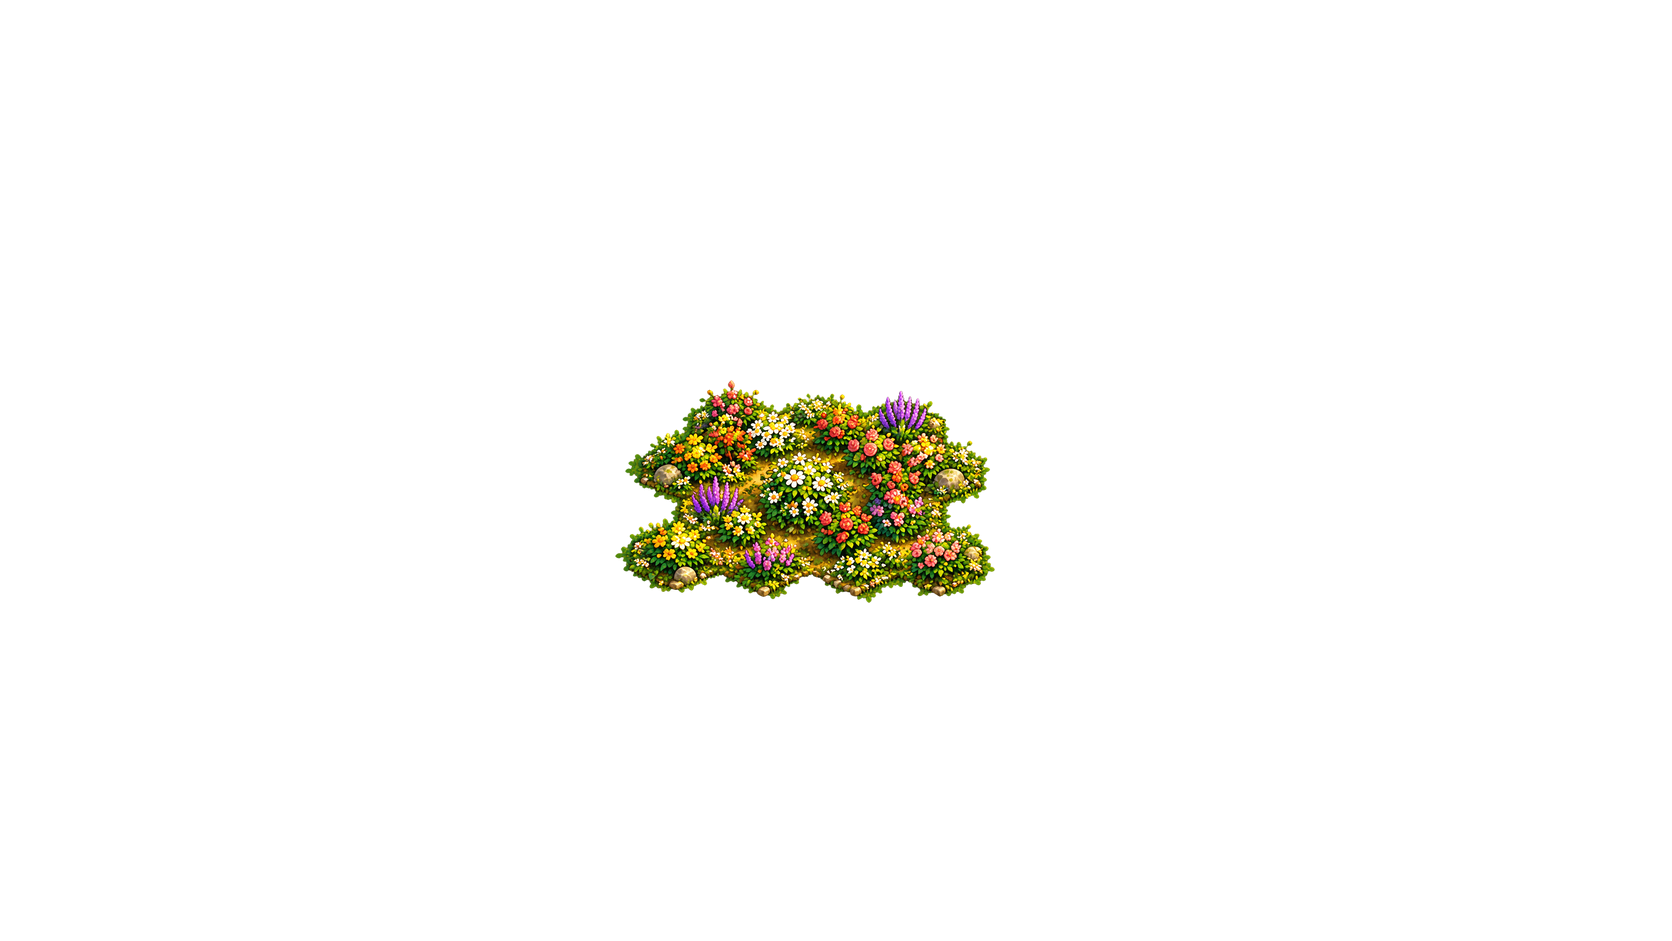
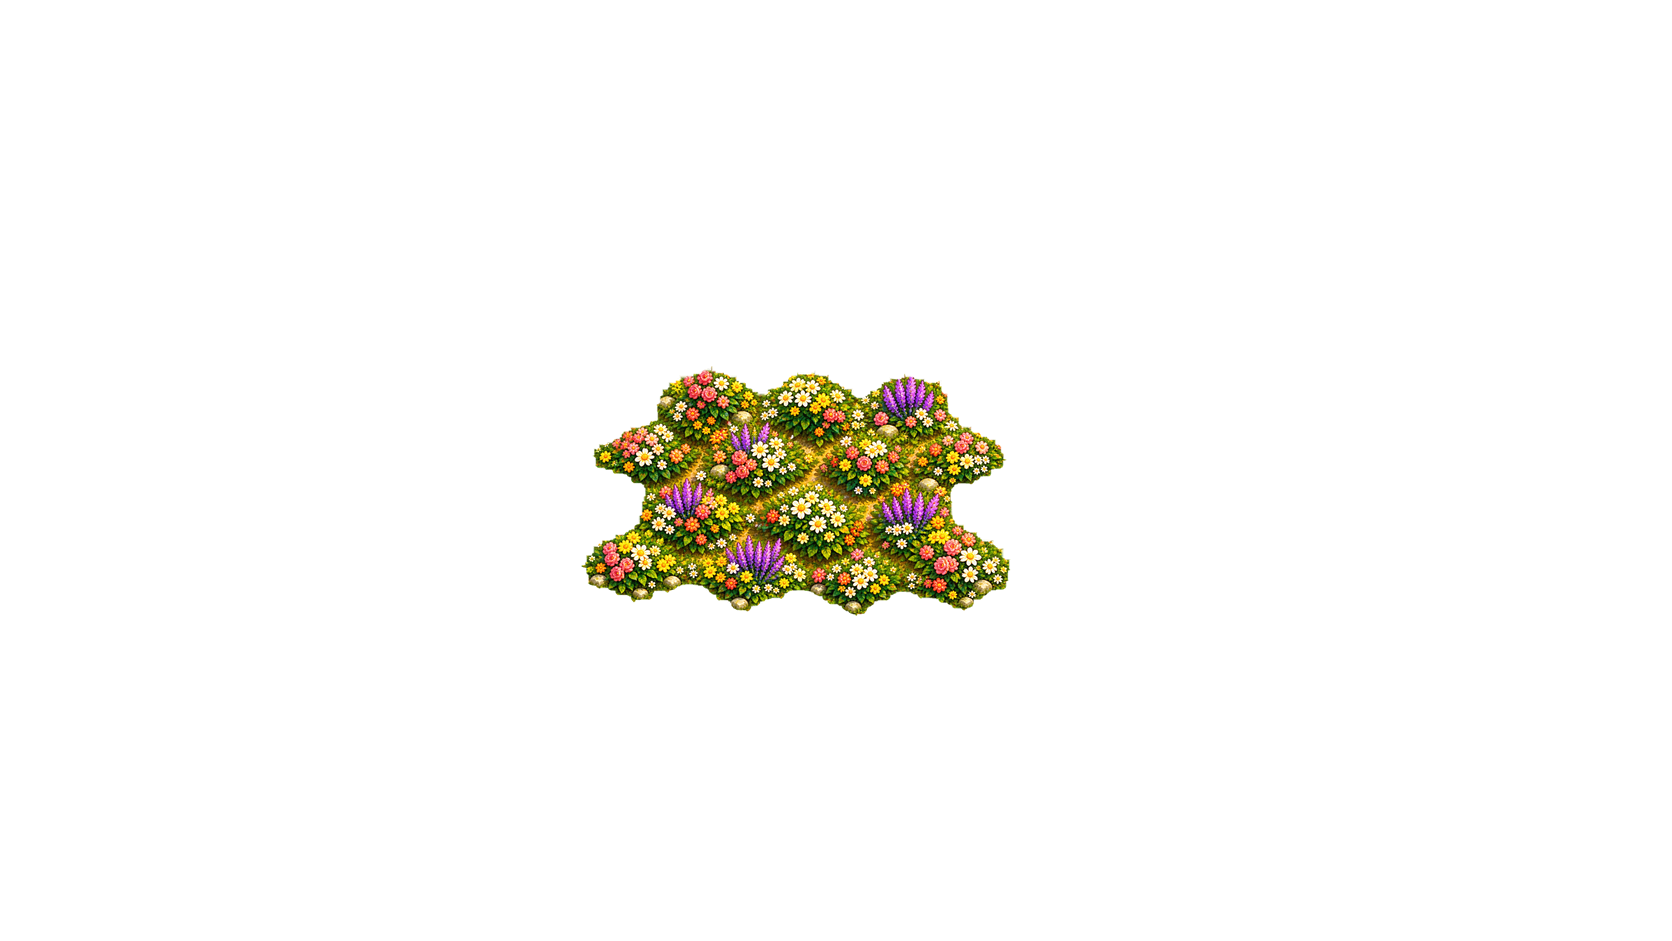
art(#45): cover all14 well flower blockers with an intrinsically natural bed

Changed region(s): [[0.3421, 0.3698, 0.622, 0.6472]]

diff --git a/scripts/art-garden-well-native.py b/scripts/art-garden-well-native.py
@@ -71,13 +71,13 @@ def garden():
     (OUT/'review/garden-native-v1-checks.json').write_text(json.dumps(checks,indent=2)+'\n');print(json.dumps(checks))
 def well():
     base=Image.open(ART/'candidates/well-clear-v1.png').convert('RGBA')
-    source=Image.open(OUT/'well-flowers-cutout-v1.png').convert('RGBA')
-    alpha=source.getchannel('A').filter(ImageFilter.MinFilter(5))
+    source=Image.open(OUT/'well-flowers-guided-v2.png').convert('RGBA')
+    alpha=source.getchannel('A').filter(ImageFilter.MinFilter(25))
     bbox=alpha.point(lambda v:255 if v>2 else 0).getbbox()
     source.putalpha(alpha);flowers=source.crop(bbox)
-    flowers=flowers.resize((380,223),Image.Resampling.LANCZOS)
-    flowers.putalpha(flowers.getchannel('A').point(lambda a:0 if a<=2 else a))
-    layer=Image.new('RGBA',SIZE);layer.alpha_composite(flowers,(615,380))
+    flowers=flowers.resize((432,round(432*flowers.height/flowers.width)),Image.Resampling.LANCZOS)
+    flowers.putalpha(flowers.getchannel('A').point(lambda a:0 if a<=4 else a))
+    layer=Image.new('RGBA',SIZE);layer.alpha_composite(flowers,(580,365))
     layer.save(OUT/'layers/well-flowers-v1.png')
     candidate=Image.alpha_composite(base,layer);candidate.save(OUT/'well-native-v1.png')
     overlay('well',candidate,'well-native-v1')
@@ -85,9 +85,9 @@ def well():
     accepted=polygon_mask('well',kind='flower').filter(ImageFilter.MinFilter(3))
     teacher=Image.open(ROOT/'public/assets/characters-facing-v1/residents/teacher-conversation-front.png').convert('RGBA')
     scale=174/1008;teacher=teacher.resize((round(teacher.width*scale),174),Image.Resampling.LANCZOS)
-    actor=Image.new('RGBA',SIZE);actor.alpha_composite(teacher,(round(1195-272*scale),round(405-1004*scale)))
+    actor=Image.new('RGBA',SIZE);actor.alpha_composite(teacher,(round(1225-272*scale),round(405-1004*scale)))
     Image.alpha_composite(candidate,actor).save(OUT/'review/well-native-v1-teacher.png')
-    checks={'candidate':'well-native-v1','status':'native-pilot-awaiting-actual-game','source':'well-flowers-cutout-v1.png','sourceWholeSize':[1608,978],'sourceAlphaCrop':list(bbox),'uniformTargetSize':[380,223],'offset':[615,380],'nativeAlphaErosionRadius':2,'postResampleDropAlphaAtMost':2,'perimeterHardClip':False,'strictAnyNonzeroAlpha':True,'flowerFullAlphaFreeOverlap':intersects(layer.getchannel('A'),free),'flowerOutsideInsetAcceptedUnion':intersects(layer.getchannel('A'),ImageChops.invert(accepted)),'teacherProposedFeet':[1195,405],'teacherFullAlphaFreeOverlap':intersects(actor.getchannel('A'),free),'rasterTolerancePx':1}
+    checks={'candidate':'well-native-v1','status':'native-pilot-awaiting-actual-game','source':'well-flowers-guided-v2.png','sourceWholeSize':list(source.size),'sourceAlphaCrop':list(bbox),'uniformTargetSize':list(flowers.size),'offset':[580,365],'nativeAlphaErosionRadius':12,'postResampleDropAlphaAtMost':4,'perimeterHardClip':False,'strictAnyNonzeroAlpha':True,'flowerFullAlphaFreeOverlap':intersects(layer.getchannel('A'),free),'flowerOutsideInsetAcceptedUnion':intersects(layer.getchannel('A'),ImageChops.invert(accepted)),'flowerOutsideAcceptedUnion':intersects(layer.getchannel('A'),ImageChops.invert(polygon_mask('well',kind='flower'))),'flowerOutsideAcceptedUnionWith1pxTolerance':intersects(layer.getchannel('A'),ImageChops.invert(polygon_mask('well',kind='flower').filter(ImageFilter.MaxFilter(3)))),'flowerCellCenterAlphas':{c['id']:layer.getchannel('A').getpixel((round(c['center']['x']),round(c['center']['y']))) for c in geometry('well')['cells'] if c['terrain']=='flower'},'teacherProposedFeet':[1225,405],'teacherFullAlphaFreeOverlap':intersects(actor.getchannel('A'),free),'rasterTolerancePx':1}
     (OUT/'review/well-native-v1-checks.json').write_text(json.dumps(checks,indent=2)+'\n');print(json.dumps(checks))
 if __name__=='__main__':
     well() if len(sys.argv)>1 and sys.argv[1]=='well' else garden()

diff --git a/docs/chapter-1-rc/art/garden-well/WELL-NATIVE.md b/docs/chapter-1-rc/art/garden-well/WELL-NATIVE.md
@@ -2,8 +2,12 @@
 
 Original well-clear-v1 base retained, including cottages/well and accepted camera. Original map well reference depicts the same round stone/tile-roof well surrounded by daisies/lavender; no different cottage design invented.
 
-Builtin imagegen performed a transparent extraction of the original well-v4 flower composition from a source crop. Whole1608×978 output and exact prompt persisted. The natural irregular outline is never clipped against hex polygons. Native alpha erosion2px removes generated fringe; alpha crop20,18,1590,941 uniformly becomes380×223 placed615,380. Post-resample alpha≤2 removed. Strict any-alpha overlap is0 with free interior and0 outside the inset accepted flower union. This is a compact natural bed; visual occupancy/top-blocker interpretation remains coordinator's review, not automatically accepted by numeric checks.
+The first builtin natural cutout was technically clear of free ground but too compact: the top three blocked centers still looked like walkable grass. It is rejected for occupancy; whole generated cutout, compact native candidate/checks are preserved (rejects/well-native-compact-v1.png). Old angular hard-clipped composite remains untouched/rejected too.
 
-Old angular clipped composite remains untouched/rejected. Original source was not overwritten. Native candidate/geometry/Teacher preview and checks JSON saved. Proposed Teacherfront feet1195,405 yields972 nonzero-alpha free overlap in this art geometry; this is reported rather than treated as a PASS. Actual runtime geometry/anchor belongs to coordinator; flower layer itself cannot cause this overlap and remains clear of NPC.
+Selected guided whole source is1593×987, saved as well-flowers-guided-v2.png with exact prompt and technical coverage guide. Its intrinsically lobed arrangement covers the14 accepted flower-cell centers. No generated pixels are clipped by a hex or polygon mask. A uniform source-alpha inward cleanup12native pixels (about3.4scene pixels) makes its own natural foliage outline fit the footprint, followed by uniform432×251 registration at580,365; low-alpha≤4 resampling fringe is removed. Original whole source remains unchanged. Source alpha crop42,45,1546,918 is only technical packing.
 
-Public resource is separately staged, no common manifest/runtime activation. Actual game/wide review pending. Tool: builtin imagegen only, no external upload or CLI fallback.
+Checks: all14 center alphas165..251, strict any-alpha free-interior overlap0. Three pixels cross the raw raster flower-union boundary, all within the explicit1px raster tolerance; none enter free interior. Inset-union count16 is reported, not misrepresented as0. This is not an angular perimeter mask. Natural edge/style and actual gameplay still require coordinator review.
+
+Teacher proposed feet now1225,405 (coordinator's original anchor audit): front full sprite alpha/free0. Earlier1195,405 proposal failed and is retained in compact-v1 checks; no character crop was used to fix it. Existing NPC assets/world feet policy and runtime/common manifests remain coordinator-owned.
+
+Tool: builtin imagegen only, no external upload/CLI fallback. Raw sources, prompts, source crop, coverage guide, selected native/geometry/Teacher images and checks retained. Public resource is separately staged; actual game/wide review pending.
